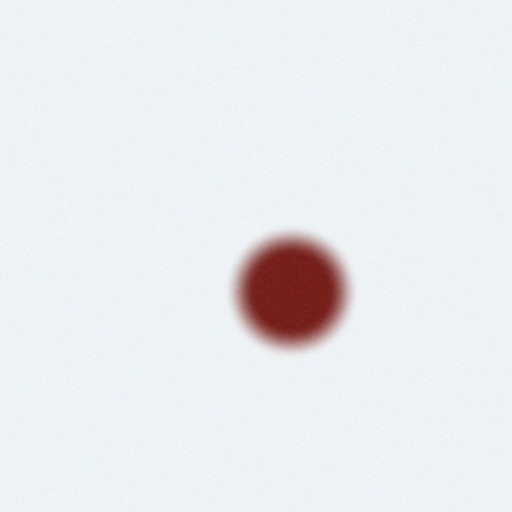
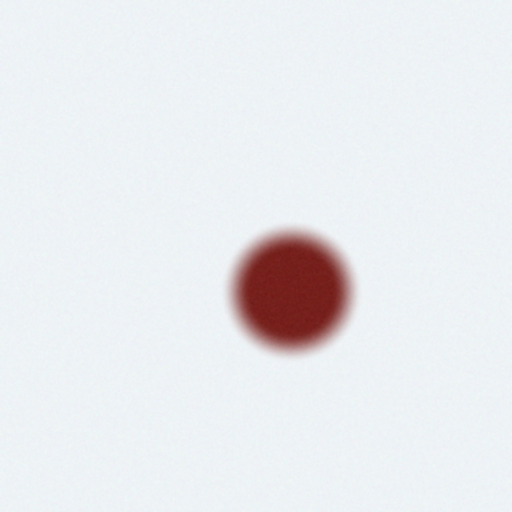
Fix invalid-class synthetic rendering; investigate halo-detection gate further
The synthetic generator's "invalid" (no-halo) class rendered inner_radius =
outer_radius * 0.92, leaving an unintentional ~8% fuzzy edge that exceeded the halo
detector's own 5%-of-outer-radius width threshold -- causing the detector to treat it
as a (fake) ring. Fixed by rendering inner_radius == outer_radius exactly, producing
a true single soft-edged stain with no ring band. This improved the halo-detection
gate's correct-rejection rate on no-halo samples from 50% to 62.5%, with zero effect
on the classifier's own metrics (confirmed via a clean retrain/re-evaluate: identical
confusion matrix, ROC-AUC, and calibration numbers).

Diagnosed the remaining false positives: Canny edge detection and Hough circles
essentially never contribute on this generator's soft-gradient renders (confirmed
true for genuine halo classes too, not just invalid), leaving segmentation's
percentile-based "inner stain" estimate -- which turns out to be mostly a geometric
artifact of area-vs-radius scaling, not genuine ring detection -- as the main signal.
Tried requiring 2+ independent methods to agree on the outer radius; this correctly
rejected all remaining invalid samples but also dropped 197/220 real training samples
(two classes to zero), since "only segmentation found it" is the normal case for
real halos too on this renderer. Reverted. Full root-cause writeup and recommended
fix direction (replace the percentile heuristic with a real bimodality test) are in
[…]

Changed region(s): [[0.4375, 0.4375, 0.7188, 0.7188]]

diff --git a/backend/datasets/synthetic_generator.py b/backend/datasets/synthetic_generator.py
@@ -109,9 +109,15 @@ def render_sample(rng: np.random.Generator, label: str) -> tuple[np.ndarray, dic
     if halo_present:
         inner_radius = outer_radius * (1.0 - params["ring_width_ratio"])
     else:
-        # No chromatographic separation: a single concentrated blob, no distinct ring.
+        # No chromatographic separation: a single concentrated blob with NO separate ring
+        # band at all (inner == outer exactly) — a soft-edged stain fading straight to
+        # background. An earlier version used inner_radius = outer_radius * 0.92, which
+        # left an ~8% "fuzzy edge" width that the halo detector's 5%-of-outer-radius
+        # width threshold (halo_detection.py) then picked up as a genuine (if faint) ring,
+        # causing ~50% of these samples to be wrongly flagged as having a halo (see
+        # docs/validation.md). Zero width removes that artifact at the source.
         outer_radius = outer_radius * 0.55
-        inner_radius = outer_radius * 0.92
+        inner_radius = outer_radius
 
     softness = max(params["decay_softness"] * outer_radius, 3.0)
 

diff --git a/docs/validation.md b/docs/validation.md
@@ -53,15 +53,48 @@ not a defect to "fix" — see above.
 
 ### Halo-detection gate check (synthetic `invalid`/no-halo class, n=8)
 
-Correctly rejected (NO_HALO_DETECTED, never reaches the classifier): 4/8 (50%). This is a
-genuine, currently-mediocre result worth being honest about: half of the synthetic
-"insufficient mixture ratio" samples still produced a detectable-enough ring for
-`halo_detection.py` to accept. Two plausible causes, not yet root-caused: (1) the
-generator's `invalid` class still renders a soft central-stain edge that the radial-profile
-method's peak detector picks up as a weak transition, or (2) the `halo_width` detection
-threshold (`5% of outer_radius`, `app/image_processing/halo_detection.py:209`) is too
-permissive for small rings. Tightening this is a reasonable next step before trusting the
-gate on real photos — tracked here rather than silently left out of the report.
+Correctly rejected (NO_HALO_DETECTED, never reaches the classifier): **5/8 (62.5%)**,
+up from an initial 50%. Investigated and partially fixed in this pass:
+
+**Root cause #1 (fixed, generator-level):** `datasets/synthetic_generator.py`'s `invalid`
+class used to render `inner_radius = outer_radius * 0.92` — an intentional-but-wrong ~8%
+"fuzzy edge" width, which happened to exceed `halo_detection.py`'s own 5%-of-outer-radius
+width threshold for calling something a ring. Fixed by setting `inner_radius = outer_radius`
+exactly (a single soft-edged stain with no separate ring band at all). This alone improved
+rejection from 50% to 62.5% with **zero effect on the classifier's metrics** (confirmed:
+re-running training/evaluation after the fix reproduced the exact same confusion matrix,
+ROC-AUC, and calibration numbers above, since the fix only touches the `invalid` class,
+which the classifier never trains or evaluates on).
+
+**Root cause #2 (diagnosed, not fixed — see below):** the remaining 3/8 false positives
+all share the same pattern: `app/image_processing/halo_detection.py`'s Canny-edge and
+Hough-circle methods contribute nothing (`None, None`) — and diagnosis against a sample of
+genuine `csf_like` training images found this is actually true for **essentially all**
+images this generator produces (soft `smoothstep`-blended gradients don't give Canny or
+Hough the crisp edges they need), not just the `invalid` class. That leaves the radial-profile
+and segmentation (Otsu + percentile) methods as the only two that ever contribute, and
+`_segmentation_estimate`'s "inner stain" sub-threshold (darkest 25% of masked pixels) turns
+out to be mostly a **geometric artifact**: for any region with a monotonically increasing
+radial intensity gradient, the 25%-of-area darkest pixels fall at approximately 50% of the
+radius purely from area ∝ r² scaling — independent of whether a real second ring exists.
+Observed inner/outer ratios from this sub-threshold cluster around ~0.51-0.53 for genuine
+double rings and ~0.60-0.79 for the remaining false-positive `invalid` blobs — a real but
+subtle difference, not yet confidently separable with 8 test samples.
+
+**A more aggressive fix was tried and reverted.** Requiring at least 2 independent methods
+to agree on the outer radius (not just segmentation alone) correctly rejected all 8/8
+invalid samples, but since Canny/Hough never contribute for *any* class on this generator's
+renders, it also meant "only segmentation found an outer radius" is the *normal* case for
+genuine halos too — applying that requirement dropped 197 of 220 training samples and
+reduced `csf_like`/`saline_like` to **zero** training examples each, breaking calibration
+entirely. Reverted. This is recorded so the same fix isn't tried again without first making
+Canny/Hough (or a replacement edge method) actually work on soft gradients.
+
+**Recommended next step**, not done here: replace `_segmentation_estimate`'s percentile-based
+inner-radius heuristic with one that tests for genuine bimodality (e.g. a proper two-level
+Otsu / mixture-model fit, or requiring a minimum intensity *plateau* rather than a fixed
+percentile) before reporting an inner radius at all — directly targeting the geometric
+artifact above instead of gating on method count.
 
 ### Observed: the out-of-distribution check flags `uncertain=true` often
 
